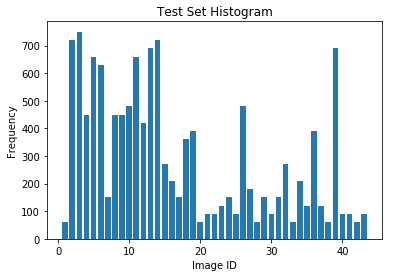
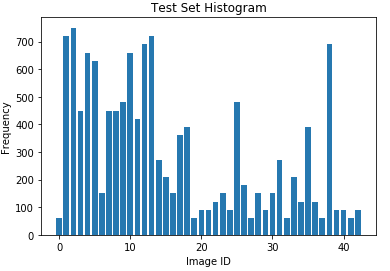
Working Session

Changed region(s): [[0.0, 0.0, 0.9846, 1.0], [0.5846, 0.3542, 0.6154, 0.3838]]

diff --git a/writeup_template.md b/writeup_template.md
@@ -62,51 +62,46 @@ Histograms are plotted and analyzed for each of the three data sets:
 ![Test Set Histogram][image4]
 
 The distribution for each of the sets follows a similar pattern, implying that the three were generated from a randomized master dataset . While I have never been to Germany, I can observe that the following signs are not very common : 
+
 |Sign|ID|
 |---|---|
-|20 km/h|1|
-|100 km/h|7|
-|Dangerous Curve to the Right|20|
+|20 km/h|0|
+|End of Speed Limit 80 km/h |6|
+|Dangerous Curve to the Left|19|
+|Dangerous Curve to the Right |20|
+|Double Curve |21|
+|Road Narrows on the Right|24|
 |Pedestrians|27|
-|Turn Right Ahead|33|
-|Keep Right|38|
+|End of all Speed and Passing Limits|32|
+|Go Straight or Left|37|
+|End of No Passing|41|
 
 
  While the following are more popular : 
+
 |Sign|ID|
 |---|---|
-|50 km/h|2|
-|60 km/h|3|
-|80 km/h|5|
-|End of Speed Limit 80 km/h|6|
-|Right-of-way at Next Intersection|11|
+|Speed limit (30km/h)|1|
+|Speed limit (50km/h)|2|
+|Speed limit (70km/h)|4|
+|Speed limit (80km/h)|5|
+|No passing for vehicles over 3.5 metric tons|10|
+|Priority road|12|
 |Yield|13|
-|Stop|14|
-|Keep left|39|
+|Keep Right|38|
 
-To challenge the robustness of the developed model, it shall be evaluated with signs that appear less frequently in the data set.
+In theory, the worst case accuracy of the model would be on the signs that appear less frequently in the data set. Augmenting the data set with additional images will be explored as a technique to improve the models accuracy.
 
 ### Design and Test a Model Architecture
 
 #### 1. Describe how you preprocessed the image data. What techniques were chosen and why did you choose these techniques? Consider including images showing the output of each preprocessing technique. Pre-processing refers to techniques such as converting to grayscale, normalization, etc. (OPTIONAL: As described in the "Stand Out Suggestions" part of the rubric, if you generated additional data for training, describe why you decided to generate additional data, how you generated the data, and provide example images of the additional data. Then describe the characteristics of the augmented training set like number of images in the set, number of images for each class, etc.)
 
-As a first step, I decided to convert the images to grayscale because ...
+An untouched LeNet model was initially tested without any pre-processing to establish a baseline accuracy. Model parameters were also default (EPOCHS = 10, BATCH_SIZE = 128, RATE = 0.001, SIGMA = 0.1, MU = 0). The accuracy on the validation was 86.9%. Ok, now we have a baseline to work from. The model will be tested in an iterative process as design changes are made to both pre-processing and architecture, in order to validate their effects.
 
-Here is an example of a traffic sign image before and after grayscaling.
-
-![alt text][image2]
-
-As a last step, I normalized the image data because ...
-
-I decided to generate additional data because ... 
-
-To add more data to the the data set, I used the following techniques because ... 
-
-Here is an example of an original image and an augmented image:
-
-![alt text][image3]
-
-The difference between the original data set and the augmented data set is the following ... 
+Pre-processing steps:
+* Images are converted to gray scale. It was noticed that the training time is significantly shorter due to shrinking the input depth from (R,G,B) to (Gray) with a GTX 960 GPU being used. Validation set accuracy improves to 91.12%. Color is not a useful feature for identifying the traffic signs and loosens the structure.
+* The data sets are normalized to [-1,1] by applying the following formula to each pixel : normalized_pixel =(pixel - 128)/128 . The average of each dataset is roughly -0.35. Normalziation was performed so that features in the image are considered with equally by the network, leading to faster convergence of the network weights with less oscillations around minima. Validation set accuracy still sits at 91.18%.  	
+* At this point, the training set accuracy is roughly 99% while the validation set is only 90%, and so I decided to generate additional data in order to improve the accuracy of the validation set . As illustrated above, there are certain images in the training dataset that are not very common and without sufficient data to  train on, this could lead to the model not being able to sufficiently learn the features to properly classify these images on fresh images it has not seen before. The goal will be to add images to each bin in the training data until the quantity reaches the average, 809.
 
 
 #### 2. Describe what your final model architecture looks like including model type, layers, layer sizes, connectivity, etc.) Consider including a diagram and/or table describing the final model.
